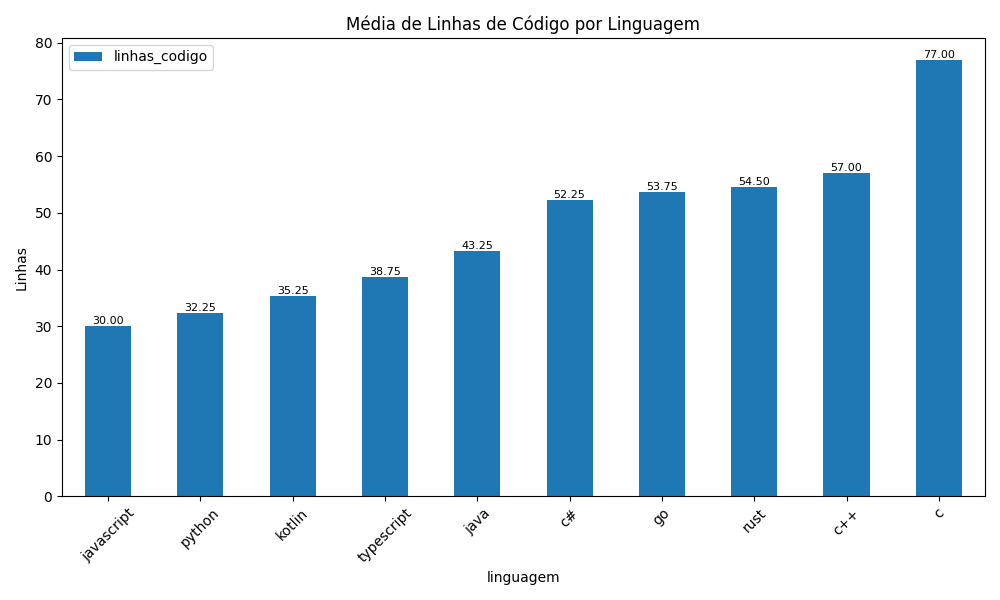
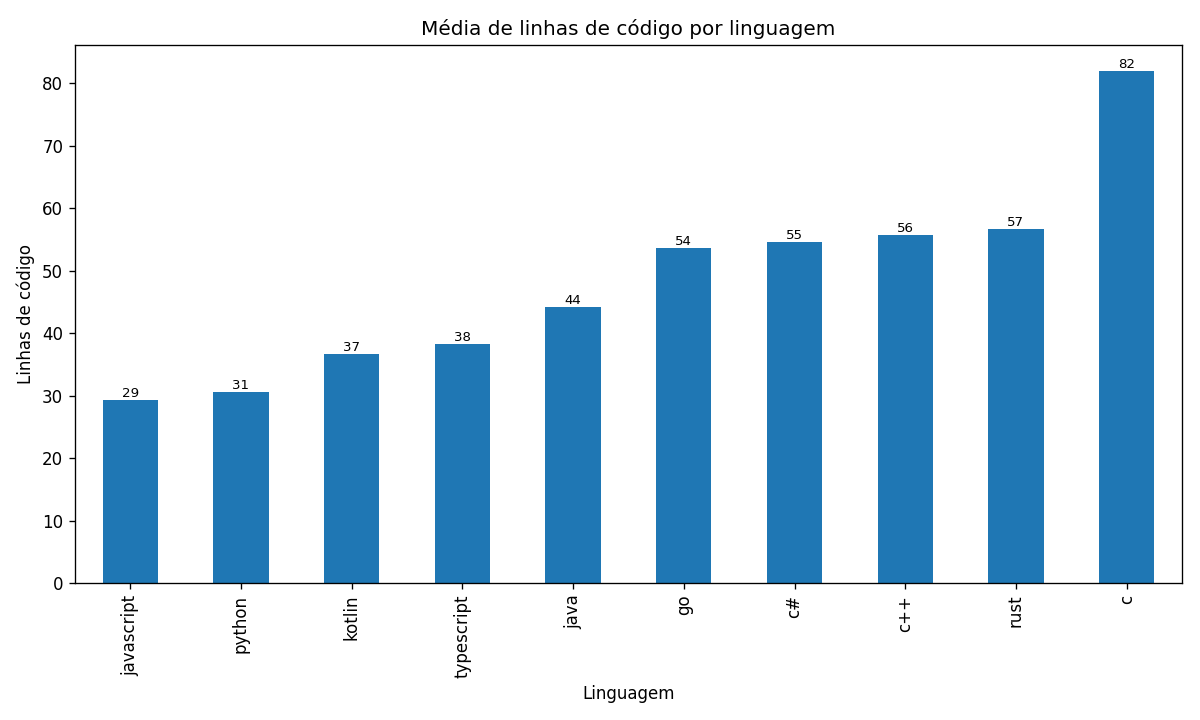
TCC: BI inicio

diff --git a/thesis/bi.py b/thesis/bi.py
@@ -109,10 +109,20 @@ agg.to_csv(os.path.join(OUT_DIR, "resumo_agg.csv"), index=False)
 def pivot_mean_std(agg: pd.DataFrame, value_prefix: str, index_col="tamanho", column_col="linguagem", extra_filters=None):
     sub = agg.copy()
     if extra_filters:
-        for k,v in extra_filters.items():
-            sub = sub[sub[k]==v]
-    m = sub.pivot(index=index_col, columns=column_col, values=f"{value_prefix}_mean")
-    s = sub.pivot(index=index_col, columns=column_col, values=f"{value_prefix}_std")
+        for k, v in extra_filters.items():
+            sub = sub[sub[k] == v]
+
+    # 👇 garante unicidade agregando por (index_col, column_col)
+    cols_keep = [index_col, column_col, f"{value_prefix}_mean", f"{value_prefix}_std"]
+    sub = (sub[cols_keep]
+           .groupby([index_col, column_col], as_index=False)
+           .agg({f"{value_prefix}_mean": "mean",  # média das médias
+                 f"{value_prefix}_std": "mean"})) # média dos desvios (ok p/ visual)
+
+    # pivot seguro
+    m = sub.pivot_table(index=index_col, columns=column_col, values=f"{value_prefix}_mean", aggfunc="mean")
+    s = sub.pivot_table(index=index_col, columns=column_col, values=f"{value_prefix}_std",  aggfunc="mean")
+
     m = m.fillna(0)
     s = s.fillna(0)
     return m, s
@@ -136,17 +146,45 @@ if "ram_avg_during_mb_mean" in agg.columns:
 def plot_per_group(agg: pd.DataFrame, value_prefix: str, group_col: str, title_prefix: str, fname_prefix: str):
     if group_col not in agg.columns:
         return
+
+    ylabel_map = {"tempo_s": "Tempo (s)", "cpu_avg_during": "CPU média (%)", "ram_avg_during_mb": "RAM (MB)"}
+    ylabel = ylabel_map.get(value_prefix, value_prefix)
+
     for g in sorted(agg[group_col].dropna().unique()):
-        sub = agg[agg[group_col]==g]
-        if sub.empty: 
+        sub = agg[agg[group_col] == g]
+        if sub.empty:
             continue
-        m = sub.pivot(index="tamanho", columns="linguagem" if group_col!="linguagem" else "algoritmo" if "algoritmo" in sub.columns else "classe", values=f"{value_prefix}_mean")
-        s = sub.pivot(index="tamanho", columns=m.columns.name, values=f"{value_prefix}_std")
-        if m is None or m.empty: 
+
+        # Eixo X será tamanho; as séries (colunas) variam conforme o group_col
+        if group_col != "linguagem" and "linguagem" in sub.columns:
+            series_col = "linguagem"
+        elif group_col != "algoritmo" and "algoritmo" in sub.columns:
+            series_col = "algoritmo"
+        elif group_col != "classe" and "classe" in sub.columns:
+            series_col = "classe"
+        else:
+            # fallback: tudo em uma série única
+            series_col = group_col
+
+        # Agrega por (tamanho, series_col) p/ garantir unicidade
+        needed = ["tamanho", series_col, f"{value_prefix}_mean", f"{value_prefix}_std"]
+        needed = [c for c in needed if c in sub.columns]
+        if len(needed) < 3:
             continue
+
+        sub2 = (sub[needed]
+                .groupby(["tamanho", series_col], as_index=False)
+                .agg({f"{value_prefix}_mean": "mean", f"{value_prefix}_std": "mean"}))
+
+        m = sub2.pivot_table(index="tamanho", columns=series_col, values=f"{value_prefix}_mean", aggfunc="mean")
+        s = sub2.pivot_table(index="tamanho", columns=series_col, values=f"{value_prefix}_std",  aggfunc="mean")
+
+        if m is None or m.empty:
+            continue
+
         title = f"{title_prefix} – {group_col}: {g}"
         fname = f"{fname_prefix}_{group_col}_{str(g)}"
-        plot_error_lines(m, s, title, ylabel={"tempo_s":"Tempo (s)","cpu_avg_during":"CPU média (%)","ram_avg_during_mb":"RAM (MB)"}[value_prefix], filename=fname)
+        plot_error_lines(m, s, title, ylabel=ylabel, filename=fname)
 
 # Por linguagem: como RAM e Tempo escalam com tamanho
 plot_per_group(agg, "tempo_s", "linguagem", "Tempo × Tamanho", "tempo_vs_tamanho")
